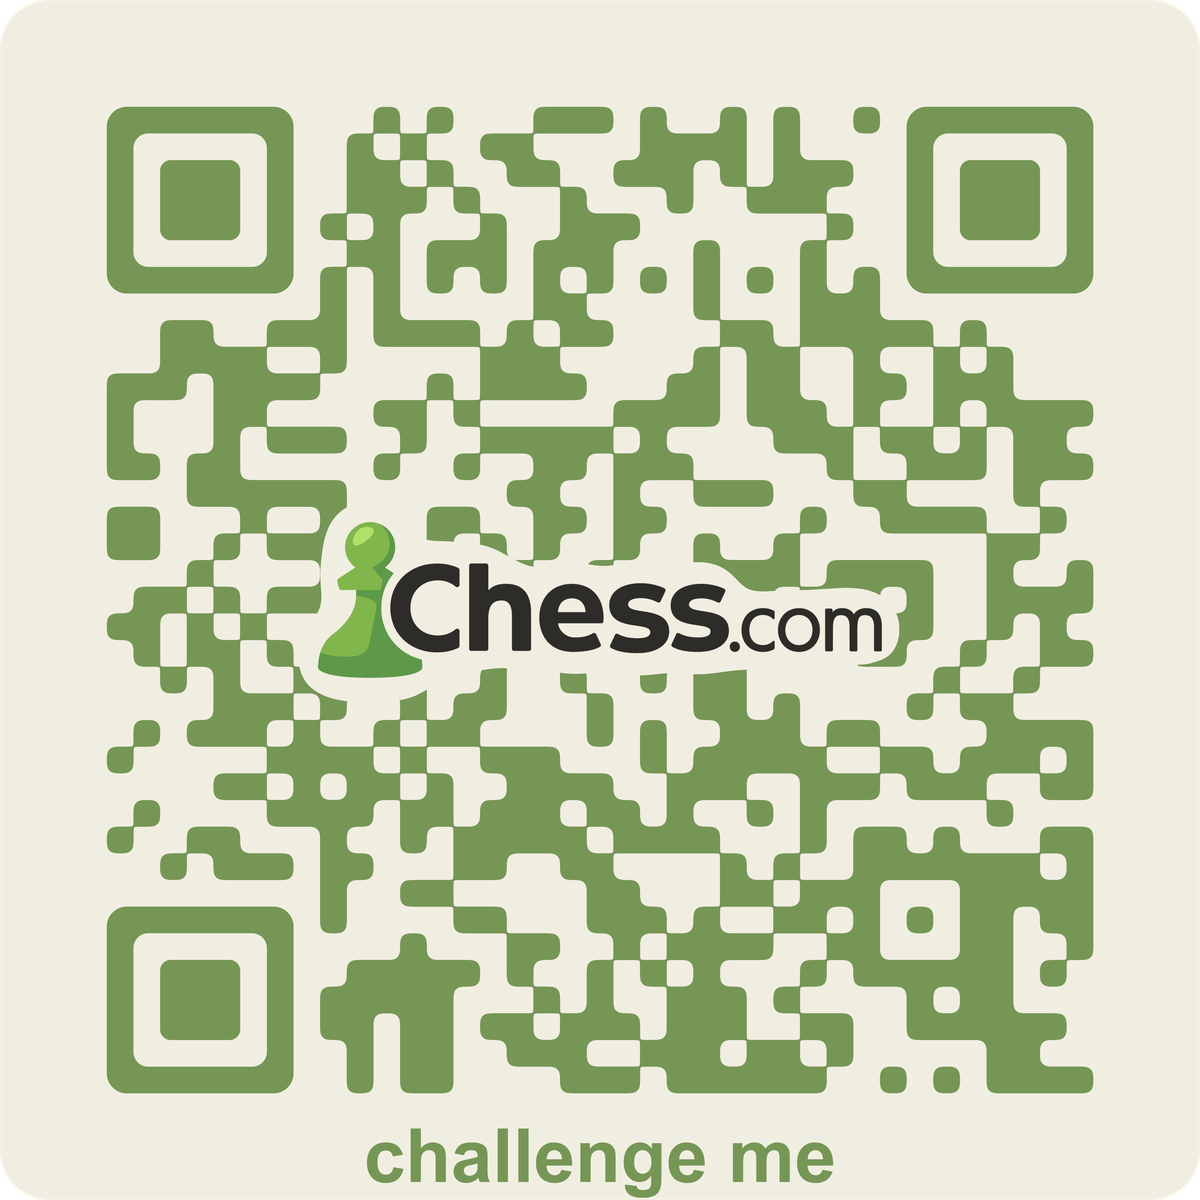
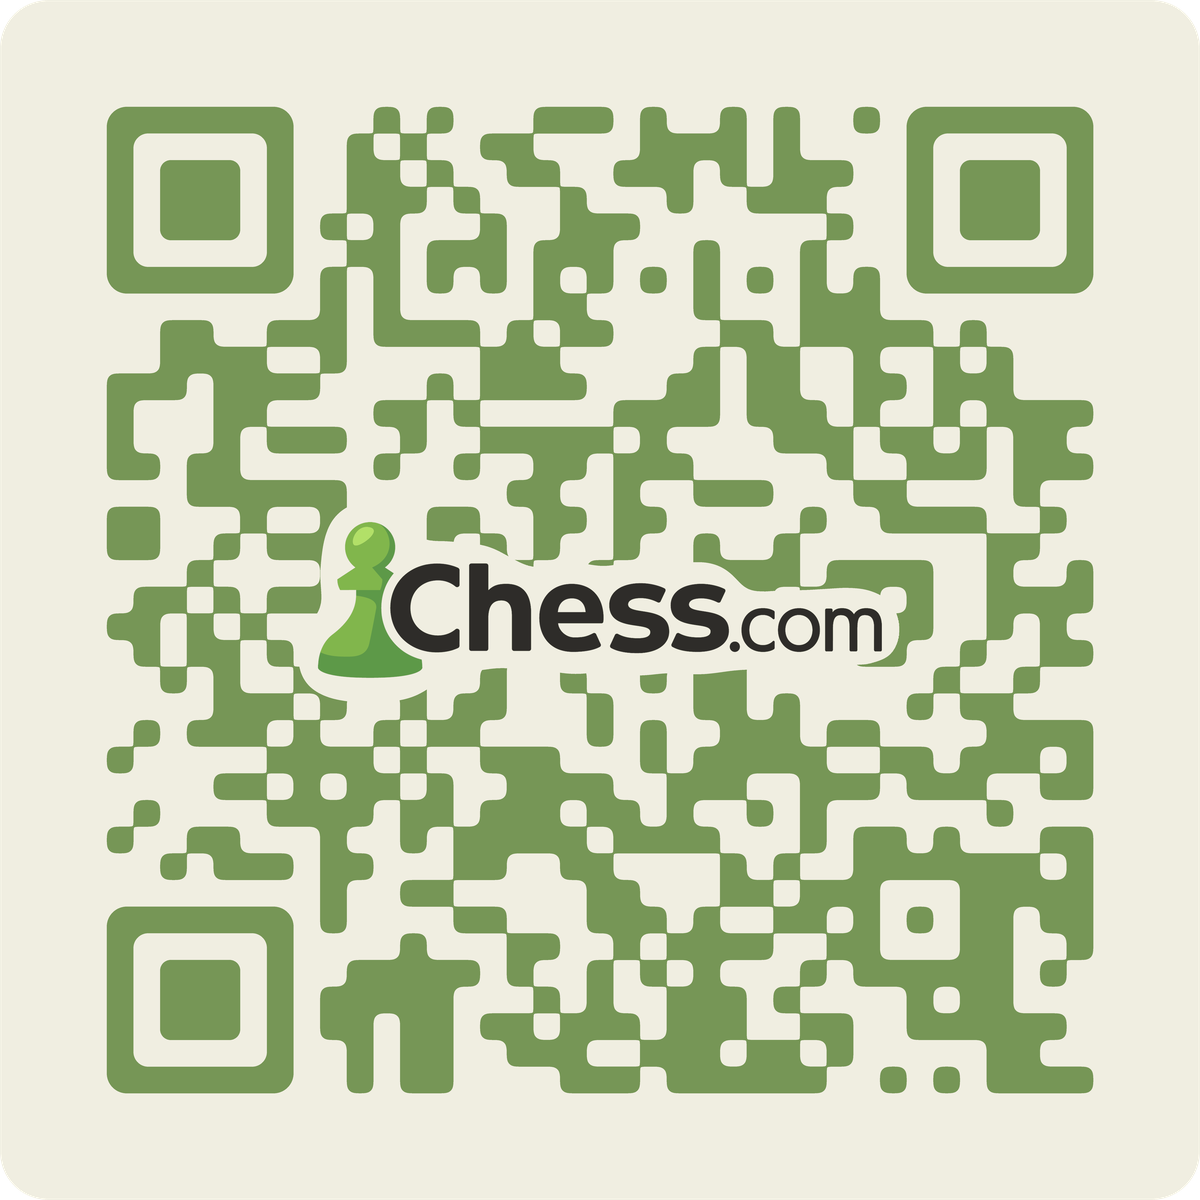
Drop the "challenge me" text from the sticker
Removes the text-drawing step and the now-unused font loading helper.
The text sat inside the 4-module quiet zone, so dropping it leaves a
symmetric border and needs no layout change. Regenerated the example.

Changed region(s): [[0.3083, 0.925, 0.7092, 1.0]]

diff --git a/blog/2026-08-01-chess-com-challenge-qr-sticker/generate_sticker.py b/blog/2026-08-01-chess-com-challenge-qr-sticker/generate_sticker.py
@@ -147,40 +147,7 @@ else:
     print(f"Warning: Logo not found at {LOGO_PATH}")
 
 # ═══════════════════════════════════════════════════════════════════════════════
-#  STEP 6: "challenge me" text below QR
-# ═══════════════════════════════════════════════════════════════════════════════
-
-from PIL import ImageFont
-
-def load_font(size, bold=False):
-    candidates = [
-        "/System/Library/Fonts/Supplemental/Arial Bold.ttf",
-        "/usr/share/fonts/truetype/dejavu/DejaVuSans-Bold.ttf",
-        "/usr/share/fonts/truetype/liberation/LiberationSans-Bold.ttf",
-    ] if bold else [
-        "/System/Library/Fonts/Supplemental/Arial.ttf",
-        "/usr/share/fonts/truetype/dejavu/DejaVuSans.ttf",
-        "/usr/share/fonts/truetype/liberation/LiberationSans-Regular.ttf",
-    ]
-    for p in candidates:
-        if os.path.exists(p):
-            return ImageFont.truetype(p, size)
-    # load_default() is a small bitmap font and will look broken at this size
-    raise SystemExit("No usable TrueType font found; add one to load_font()'s candidates.")
-
-draw = ImageDraw.Draw(img)
-qr_bottom = (N - border) * ms
-text_y = qr_bottom + int(ms * 0.8)
-font_size = int(ms * 2.8)
-font = load_font(font_size, bold=True)
-text = "challenge me"
-bbox = draw.textbbox((0, 0), text, font=font)
-tw = bbox[2] - bbox[0]
-tx = (actual_size - tw) // 2
-draw.text((tx, text_y), text, fill=QR_GREEN + (255,), font=font)
-
-# ═══════════════════════════════════════════════════════════════════════════════
-#  STEP 7: Rounded outer corners + transparent background
+#  STEP 6: Rounded outer corners + transparent background
 # ═══════════════════════════════════════════════════════════════════════════════
 
 outer_mask = Image.new("L", (actual_size, actual_size), 0)

diff --git a/blog/2026-08-01-chess-com-challenge-qr-sticker/index.md b/blog/2026-08-01-chess-com-challenge-qr-sticker/index.md
@@ -8,7 +8,7 @@ tags:
 draft: true
 ---
 
-I wanted a sticker I could put on my laptop that lets anyone challenge me on chess.com by pointing their phone at it. The obvious answer is a QR code, but a plain black-and-white QR code looks like a parking meter. So I wrote a ~150 line Python script that renders one in chess.com's green-on-cream palette with rounded modules and the logo dropped into the middle.
+I wanted a sticker I could put on my laptop that lets anyone challenge me on chess.com by pointing their phone at it. The obvious answer is a QR code, but a plain black-and-white QR code looks like a parking meter. So I wrote a ~170 line Python script that renders one in chess.com's green-on-cream palette with rounded modules and the logo dropped into the middle.
 
 ![The generated challenge sticker](sticker-example.png)
 
